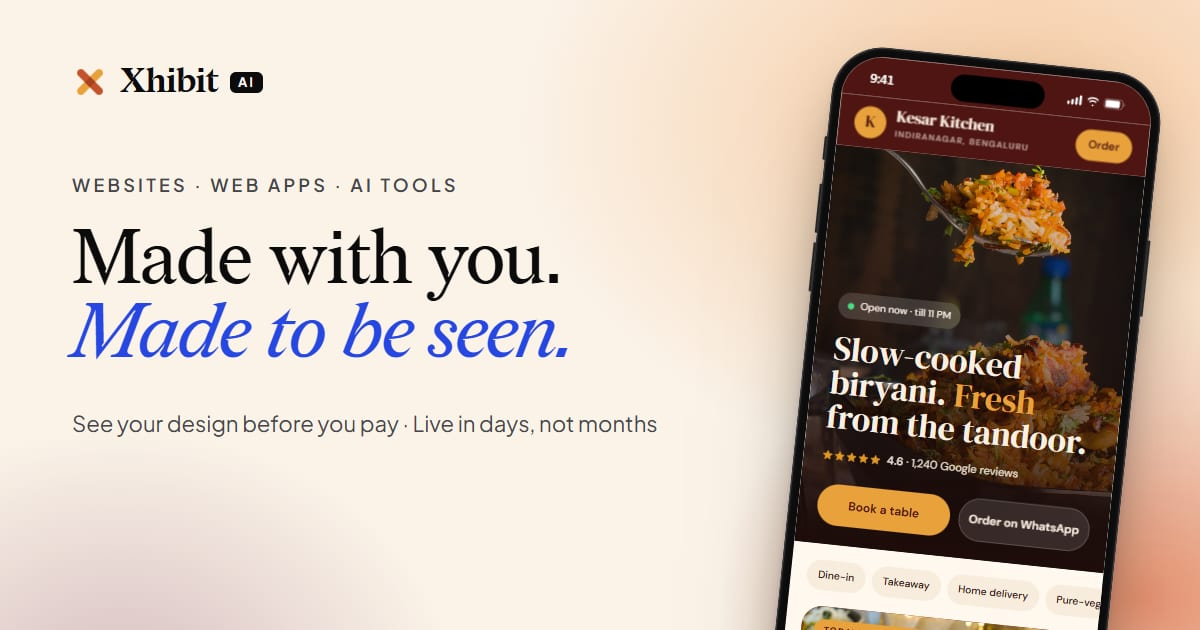
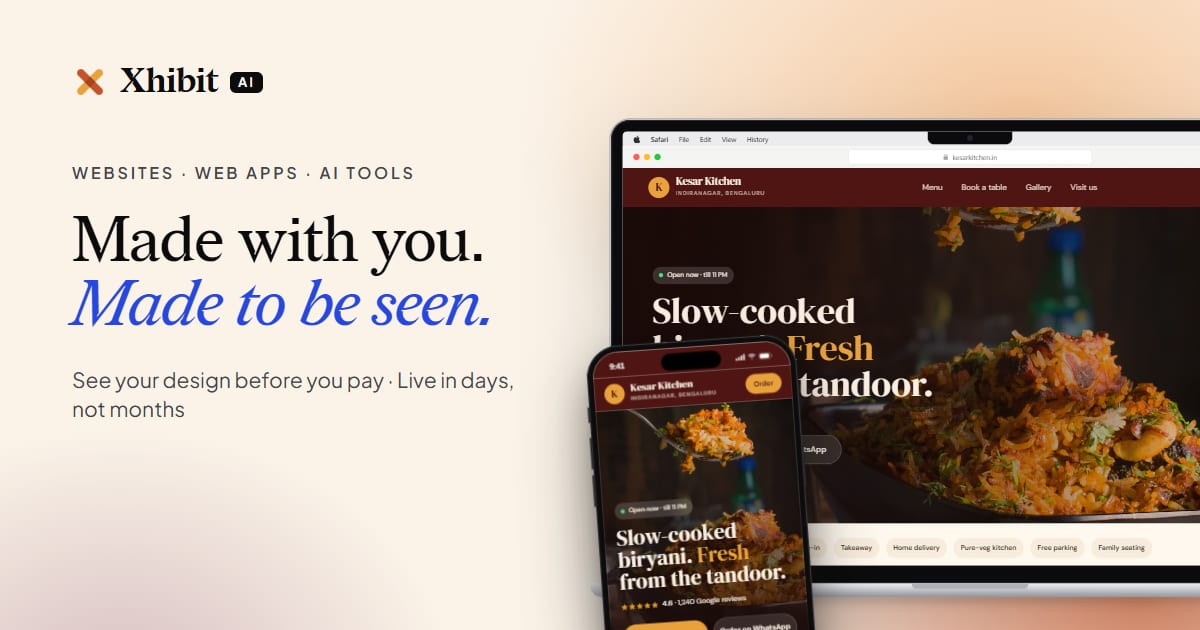
Mobile hero shows demo, laptop/phone switch in studio, laptop+phone share images

diff --git a/src/components/sections/PreviewStudio.tsx b/src/components/sections/PreviewStudio.tsx
@@ -1,8 +1,10 @@
 import { AnimatePresence, motion } from "motion/react";
+import { Laptop, Smartphone } from "lucide-react";
 import { useState } from "react";
 import { curtainFor, industries, industryBySlug, type IndustrySlug } from "../../content/industries";
 import { prefetchDemo } from "../../demos/registry";
 import { track } from "../../lib/api";
+import { useMediaQuery } from "../../lib/hooks";
 import { ease } from "../../lib/motion";
 import { usePersonalization } from "../../lib/personalization";
 import { cn } from "../../lib/utils";
@@ -31,6 +33,11 @@ export function PreviewStudio() {
   const industry = industryBySlug(slug)!;
   const who = name.trim() || "my business";
   const demoUrl = `/for/${slug}${name.trim() ? `?name=${encodeURIComponent(name.trim())}` : ""}`;
+  // Laptop by default on big screens, phone on small ones, until the visitor picks.
+  const wide = useMediaQuery("(min-width: 1024px)");
+  const [picked, setPicked] = useState<"phone" | "laptop" | null>(null);
+  const mode = picked ?? (wide ? "laptop" : "phone");
+  const laptop = mode === "laptop";
 
   return (
     <section id="industries" aria-labelledby="studio-title" className="relative scroll-mt-4 px-2 sm:px-3">
@@ -46,7 +53,7 @@ export function PreviewStudio() {
             <RevealHeading id="studio-title" text="See your business online — in *five seconds*." className="mt-6 text-display" />
             <Reveal delay={0.1}>
               <p className="mt-5 max-w-[32rem] text-lead text-ink-soft">
-                Type your business name, pick what you do, and watch your website appear. It's live — tap around inside the phone.
+                Type your business name, pick what you do, and watch your website appear on a laptop or a phone. It's live, so click around.
               </p>
             </Reveal>
 
@@ -119,21 +126,48 @@ export function PreviewStudio() {
           </div>
 
           {/* Device */}
-          <div className="lg:col-span-5 lg:col-start-8 lg:row-span-2 lg:row-start-1">
+          <div className={cn("lg:row-span-2 lg:row-start-1", laptop ? "lg:col-span-6 lg:col-start-7" : "lg:col-span-5 lg:col-start-8")}>
             <div className="lg:sticky lg:top-24">
-              <div className="relative mx-auto w-full max-w-[20rem] sm:max-w-[21.5rem]">
+              <div role="radiogroup" aria-label="Preview on" className="mx-auto mb-6 flex w-fit gap-1 rounded-full bg-linen/80 p-1 ring-1 ring-ink/[0.07]">
+                {(
+                  [
+                    ["laptop", "Laptop", Laptop],
+                    ["phone", "Phone", Smartphone],
+                  ] as const
+                ).map(([value, label, Icon]) => (
+                  <button
+                    key={value}
+                    type="button"
+                    role="radio"
+                    aria-checked={mode === value}
+                    onClick={() => {
+                      setPicked(value);
+                      track("studio_device", { device: value });
+                    }}
+                    className={cn(
+                      "relative flex items-center gap-2 rounded-full px-4 py-2 text-[0.875rem] font-semibold transition-colors",
+                      mode === value ? "text-ivory" : "text-ink-soft hover:text-ink",
+                    )}
+                  >
+                    {mode === value && <motion.span layoutId="studio-device" className="absolute inset-0 rounded-full bg-ink" transition={{ type: "spring", stiffness: 420, damping: 34 }} />}
+                    <Icon className="relative size-4" strokeWidth={1.8} aria-hidden="true" />
+                    <span className="relative">{label}</span>
+                  </button>
+                ))}
+              </div>
+              <div className={cn("relative mx-auto w-full", laptop ? "max-w-[46rem]" : "max-w-[20rem] sm:max-w-[21.5rem]")}>
                 <AnimatePresence mode="popLayout" initial={false}>
                   <motion.div
-                    key={slug}
-                    initial={{ opacity: 0, y: 30, rotate: 2.5, scale: 0.96 }}
+                    key={`${slug}-${mode}`}
+                    initial={{ opacity: 0, y: 30, rotate: laptop ? 0 : 2.5, scale: 0.96 }}
                     animate={{ opacity: 1, y: 0, rotate: 0, scale: 1 }}
-                    exit={{ opacity: 0, y: -20, rotate: -2.5, scale: 0.96 }}
+                    exit={{ opacity: 0, y: -20, rotate: laptop ? 0 : -2.5, scale: 0.96 }}
                     transition={{ duration: 0.65, ease }}
                   >
-                    <DemoDevice industry={industry} name={name} />
+                    <DemoDevice industry={industry} name={name} mode={mode} />
                   </motion.div>
                 </AnimatePresence>
-                <p className="mt-6 text-center text-[0.8125rem] font-medium text-ink-soft">It's live: tap, scroll and try things.</p>
+                <p className="mt-6 text-center text-[0.8125rem] font-medium text-ink-soft">{laptop ? "It's live: scroll, click and try things." : "It's live: tap, scroll and try things."}</p>
               </div>
             </div>
           </div>

diff --git a/src/components/hero/Hero.tsx b/src/components/hero/Hero.tsx
@@ -148,7 +148,7 @@ export function Hero() {
           <div className="absolute inset-0 bg-linear-to-b from-ivory/70 via-ivory/20 to-transparent lg:bg-linear-to-r lg:from-ivory/75 lg:via-ivory/25 lg:to-transparent" />
         </div>
 
-        <div className="container-x relative grid flex-1 items-center gap-10 pb-10 pt-28 sm:pt-32 lg:grid-cols-12 lg:gap-6 lg:pb-16 lg:pt-28 lg:[@media(max-height:820px)]:pb-10 lg:[@media(max-height:820px)]:pt-24">
+        <div className="container-x relative grid flex-1 items-center gap-7 pb-10 pt-24 sm:gap-10 sm:pt-32 lg:grid-cols-12 lg:gap-6 lg:pb-16 lg:pt-28 lg:[@media(max-height:820px)]:pb-10 lg:[@media(max-height:820px)]:pt-24">
           {/* Copy */}
           <div className="lg:col-span-7">
             <motion.p
@@ -161,7 +161,7 @@ export function Hero() {
               Websites · Web apps · AI tools
             </motion.p>
 
-            <h1 id="hero-title" className="mt-7 text-hero text-ink">
+            <h1 id="hero-title" className="mt-5 text-hero text-ink sm:mt-7">
               <span className="sr-only">
                 Your business, made to be seen. Websites, web apps and AI tools for restaurants, clinics, schools, salons, gyms, hotels, shops and startups.
               </span>
@@ -204,7 +204,7 @@ export function Hero() {
               initial={{ opacity: 0, y: 18 }}
               animate={{ opacity: 1, y: 0 }}
               transition={{ duration: 0.9, ease, delay: 0.75 }}
-              className="mt-7 max-w-[34rem] text-lead text-ink-soft"
+              className="mt-5 max-w-[34rem] text-lead text-ink-soft sm:mt-7"
             >
               We design and build websites, web apps and AI tools around your idea — so customers can{" "}
               <span className="text-ink">find you, trust you and reach you in one tap.</span>
@@ -214,7 +214,7 @@ export function Hero() {
               initial={{ opacity: 0, y: 18 }}
               animate={{ opacity: 1, y: 0 }}
               transition={{ duration: 0.9, ease, delay: 0.9 }}
-              className="mt-9 flex flex-col gap-3 sm:flex-row sm:items-center"
+              className="mt-7 flex flex-col gap-2.5 sm:mt-9 sm:flex-row sm:items-center sm:gap-3"
             >
               <Magnetic>
                 <ButtonLink
@@ -238,11 +238,11 @@ export function Hero() {
                 initial={{ opacity: 0 }}
                 animate={{ opacity: 1 }}
                 transition={{ duration: 1, ease, delay: 1.1 }}
-                className="mt-8 flex flex-wrap gap-x-6 gap-y-2 text-[0.875rem] text-ink-soft"
+                className="mt-5 flex flex-wrap gap-x-4 gap-y-1.5 text-[0.8125rem] text-ink-soft sm:mt-8 sm:gap-x-6 sm:gap-y-2 sm:text-[0.875rem]"
                 aria-label="Our promises"
               >
                 {trust.map((t) => (
-                  <li key={t} className="flex items-center gap-2">
+                  <li key={t} className="flex items-center gap-1.5 sm:gap-2">
                     <svg viewBox="0 0 16 16" className="size-4 text-sal" fill="none" stroke="currentColor" strokeWidth="2" aria-hidden="true">
                       <path d="M3.5 8.5l3 3 6-7" strokeLinecap="round" strokeLinejoin="round" />
                     </svg>
@@ -304,7 +304,7 @@ export function Hero() {
               </motion.div>
             </AnimatePresence>
 
-            <div className="absolute -bottom-20 -right-20 hidden xl:block xl:[@media(max-height:780px)]:hidden">
+            <div className="absolute -bottom-24 -right-24 hidden xl:block xl:[@media(max-height:780px)]:hidden">
               <RotatingBadge />
             </div>
           </motion.div>

diff --git a/src/pages/OgCard.tsx b/src/pages/OgCard.tsx
@@ -1,10 +1,8 @@
-import { Suspense, useEffect } from "react";
+import { useEffect } from "react";
 import { useParams } from "react-router";
 import { LogoMark } from "../components/brand/Logo";
-import { DeviceScreen } from "../components/device/DeviceScreen";
-import { PHONE, PhoneFrame } from "../components/device/frames";
+import { DemoDevice } from "../components/device/DemoDevice";
 import { baseSilk, industries, industryBySlug } from "../content/industries";
-import { demoChrome, demoComponents } from "../demos/registry";
 
 /**
  * Development-only: a 1200×630 social share card. `npm run og` screenshots
@@ -15,7 +13,6 @@ export default function OgCard() {
   const industry = industryBySlug(slug) ?? industries[0];
   const isHome = slug === "home";
   const silk = isHome ? baseSilk : industry.theme.silk;
-  const Site = demoComponents[industry.slug];
 
   useEffect(() => {
     document.documentElement.style.background = "#f5f5f2";
@@ -39,11 +36,11 @@ export default function OgCard() {
         <span className="rounded-md bg-ink px-2 py-1 text-[13px] font-bold leading-none tracking-[0.14em] text-ivory">AI</span>
       </div>
 
-      <div className="absolute left-[72px] top-[170px] w-[640px]">
-        <p className="text-[18px] font-semibold uppercase tracking-[0.18em] text-ink-soft">
+      <div className="absolute left-[72px] top-[160px] w-[500px]">
+        <p className="text-[16px] font-semibold uppercase tracking-[0.18em] text-ink-soft">
           {isHome ? "Websites · Web apps · AI tools" : `Exhibit ${industry.no} — ${industry.name}`}
         </p>
-        <p className="mt-6 font-display text-[76px] leading-[0.98] tracking-[-0.025em] text-ink">
+        <p className="mt-6 font-display text-[64px] leading-[1] tracking-[-0.025em] text-ink">
           {isHome ? (
             <>
               Made with you. <em className="text-cobalt">Made to be seen.</em>
@@ -52,23 +49,17 @@ export default function OgCard() {
             industry.headline
           )}
         </p>
-        <p className="mt-8 text-[22px] text-ink-soft">
+        <p className="mt-7 text-[21px] leading-snug text-ink-soft">
           {isHome ? "See your design before you pay · Live in days, not months" : "See a live demo — try it with your own name"}
         </p>
       </div>
 
-      <div className="absolute -bottom-[120px] right-[70px] w-[330px] rotate-[6deg]">
-        <div style={{ width: 330, height: (330 * PHONE.h) / PHONE.w }}>
-          <div className="origin-top-left" style={{ width: PHONE.w, height: PHONE.h, transform: `scale(${330 / PHONE.w})` }}>
-            <PhoneFrame chrome={demoChrome[industry.slug]}>
-              <DeviceScreen interactive={false} label="">
-                <Suspense fallback={null}>
-                  <Site name={industry.demo.name} area={industry.demo.area} city={industry.demo.city} />
-                </Suspense>
-              </DeviceScreen>
-            </PhoneFrame>
-          </div>
-        </div>
+      {/* MacBook bleeding off the right edge, iPhone in front of it */}
+      <div className="absolute right-[-150px] top-[120px] w-[760px] drop-shadow-[0_30px_40px_rgb(0_0_0/0.18)]">
+        <DemoDevice industry={industry} mode="laptop" interactive={false} />
+      </div>
+      <div className="absolute bottom-[-150px] left-[600px] w-[210px] rotate-[-4deg] drop-shadow-[0_24px_30px_rgb(0_0_0/0.28)]">
+        <DemoDevice industry={industry} mode="phone" interactive={false} />
       </div>
     </div>
   );

diff --git a/src/components/sections/LiveVisuals.tsx b/src/components/sections/LiveVisuals.tsx
@@ -203,7 +203,7 @@ export function LiveChat() {
               )}
             >
               <p>{m.text}</p>
-              <p className="mt-0.5 flex items-center justify-end gap-1 text-[9.5px] text-[#667]">
+              <p className="mt-0.5 flex items-center justify-end gap-1 text-[9.5px] text-[#5d5d6a]">
                 {m.time}
                 {!m.bot && (
                   <svg width="14" height="9" viewBox="0 0 16 10" fill="none" stroke="#3b9ae1" strokeWidth="1.6">
@@ -217,8 +217,8 @@ export function LiveChat() {
                     <span
                       key={chip}
                       className={cn(
-                        "py-2 text-center text-[12.5px] font-semibold text-[#0f8a6c] transition-colors duration-150 first:border-r first:border-black/[0.07]",
-                        pressed === chip && "bg-[#0f8a6c]/12",
+                        "py-2 text-center text-[12.5px] font-semibold text-[#0a6e55] transition-colors duration-150 first:border-r first:border-black/[0.07]",
+                        pressed === chip && "bg-[#0a6e55]/12",
                       )}
                     >
                       {chip}
@@ -253,7 +253,7 @@ export function LiveChat() {
               <span className="ml-px inline-block h-[1.05em] w-[1.5px] translate-y-[2px] animate-pulse bg-[#1fa855]" />
             </span>
           ) : (
-            <span className="text-[#99a]">Message</span>
+            <span className="text-[#6b6b78]">Message</span>
           )}
         </div>
         <span className="grid size-9 shrink-0 place-items-center rounded-full bg-[#1fa855] text-white">

diff --git a/docs/PROGRESS.md b/docs/PROGRESS.md
@@ -32,4 +32,12 @@ Newest first. The plan and decisions live in [PLAN.md](PLAN.md).
 - `npm run build` passes; accessibility audit: 0 violations on /, /for/restaurants, /privacy.
 - Share images regenerated (`npm run og`).
 
-**Still to do (Now list):** studio laptop/phone switch, phone first-screen device, laptop share images.
+**Later the same day**
+- Hero badge moved to the phone's bottom-right corner.
+- Live Services tiles (`LiveVisuals.tsx`): self-playing WhatsApp assistant chat and an iPhone lock screen receiving notifications.
+- Phones: tighter hero spacing and compact promise row, so the live demo shows on the first screen (about 230px of it on a 390px-wide iPhone, up from 150px).
+- "Try it yourself" has a Laptop / Phone switch (laptop by default on big screens). The laptop's address bar shows the visitor's own business name as a domain.
+- Share images now show a MacBook with an iPhone in front, for the home page and all eight industries.
+- Chat colours darkened for contrast. Build passes; accessibility audit: 0 violations.
+
+**Now list complete.** Next up: contact form fields, service pages, new demos.

diff --git a/docs/PLAN.md b/docs/PLAN.md
@@ -35,9 +35,9 @@ Progress is logged in [PROGRESS.md](PROGRESS.md).
 - [x] Demo fixes: gym hero brand, salon hero street, biryani photo, empty menu cards, seekh kebab, falls card, yoga → training, makeup photo, unused photos
 - [x] Demo businesses spread across cities; `city` in personalised links; WhatsApp message without a hard-coded city
 - [x] SEO: titles, descriptions, structured data (service area India, Bengaluru address), share images
-- [ ] Try-it studio: Laptop / Phone switch
-- [ ] Phone first screen: show the device under the headline
-- [ ] Share images with laptop + phone
+- [x] Try-it studio: Laptop / Phone switch
+- [x] Phone first screen: show the device under the headline
+- [x] Share images with laptop + phone
 
 ### Next
 - [ ] Work gallery with laptop + phone pairs; new demos (startup landing page, SaaS web app, AI tool)
